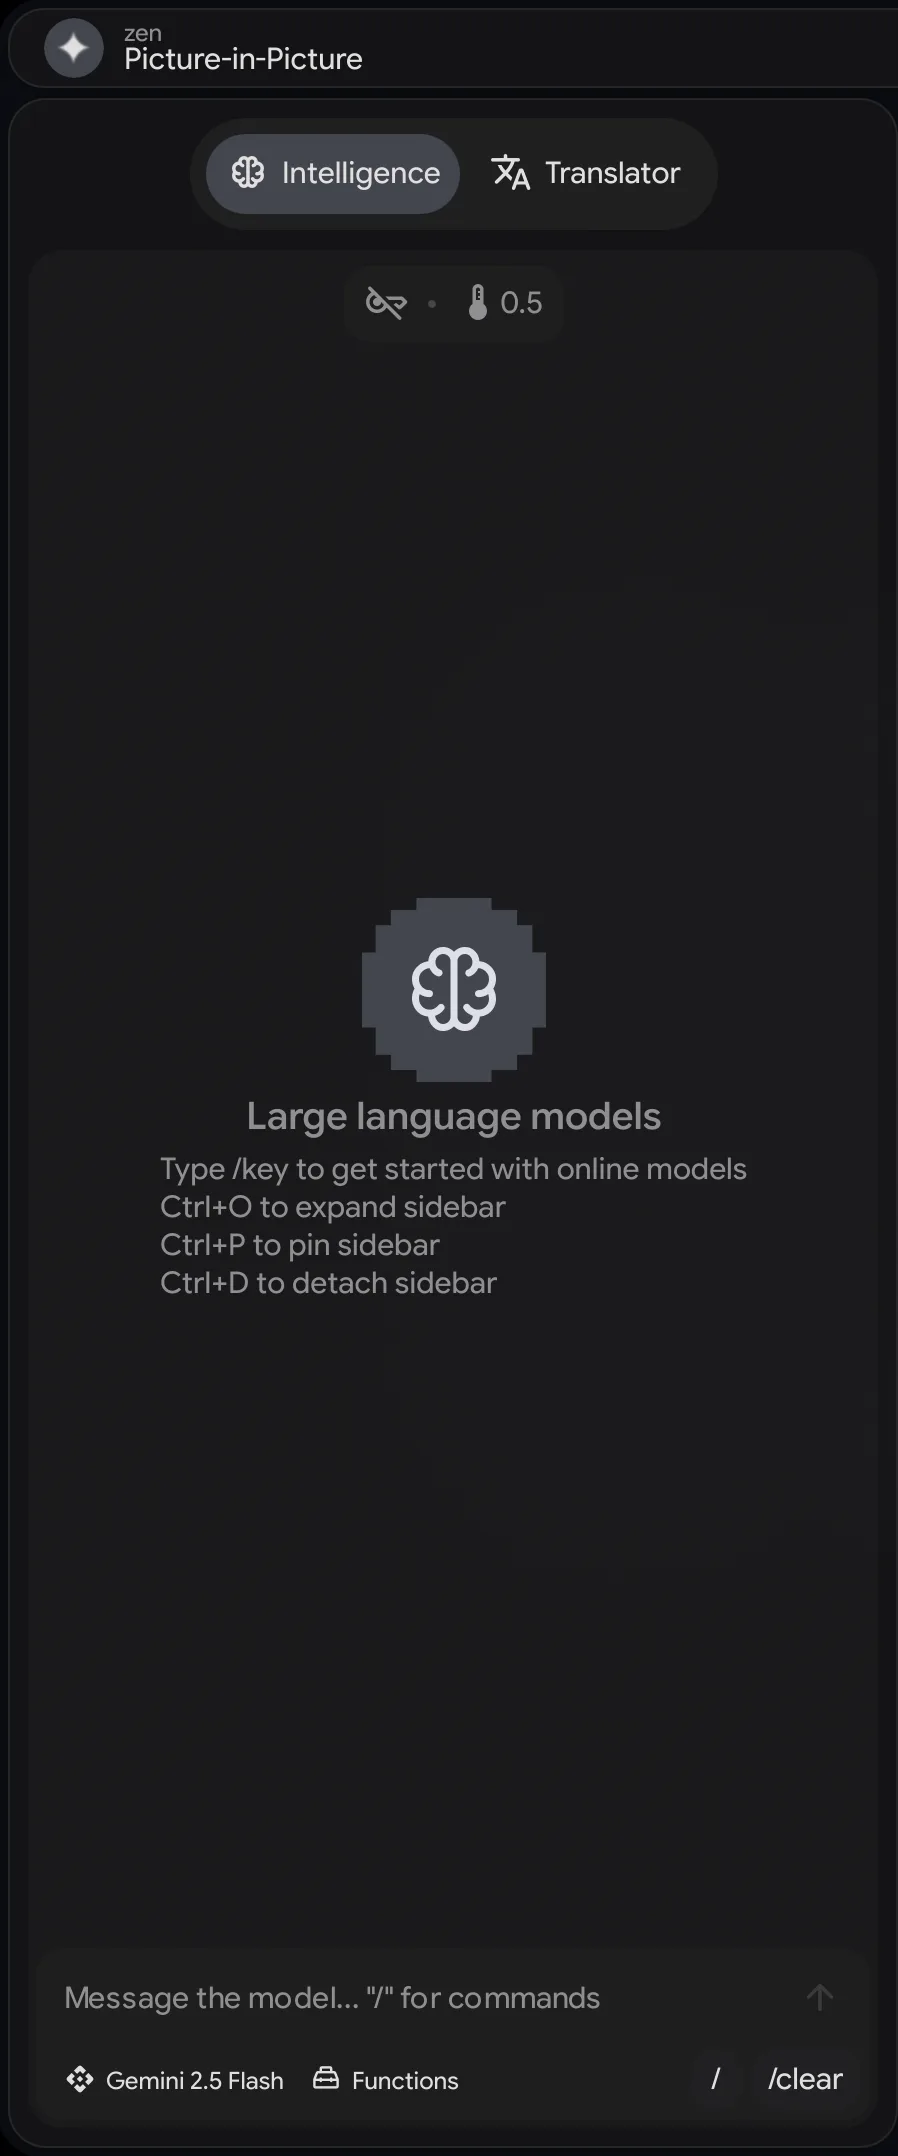
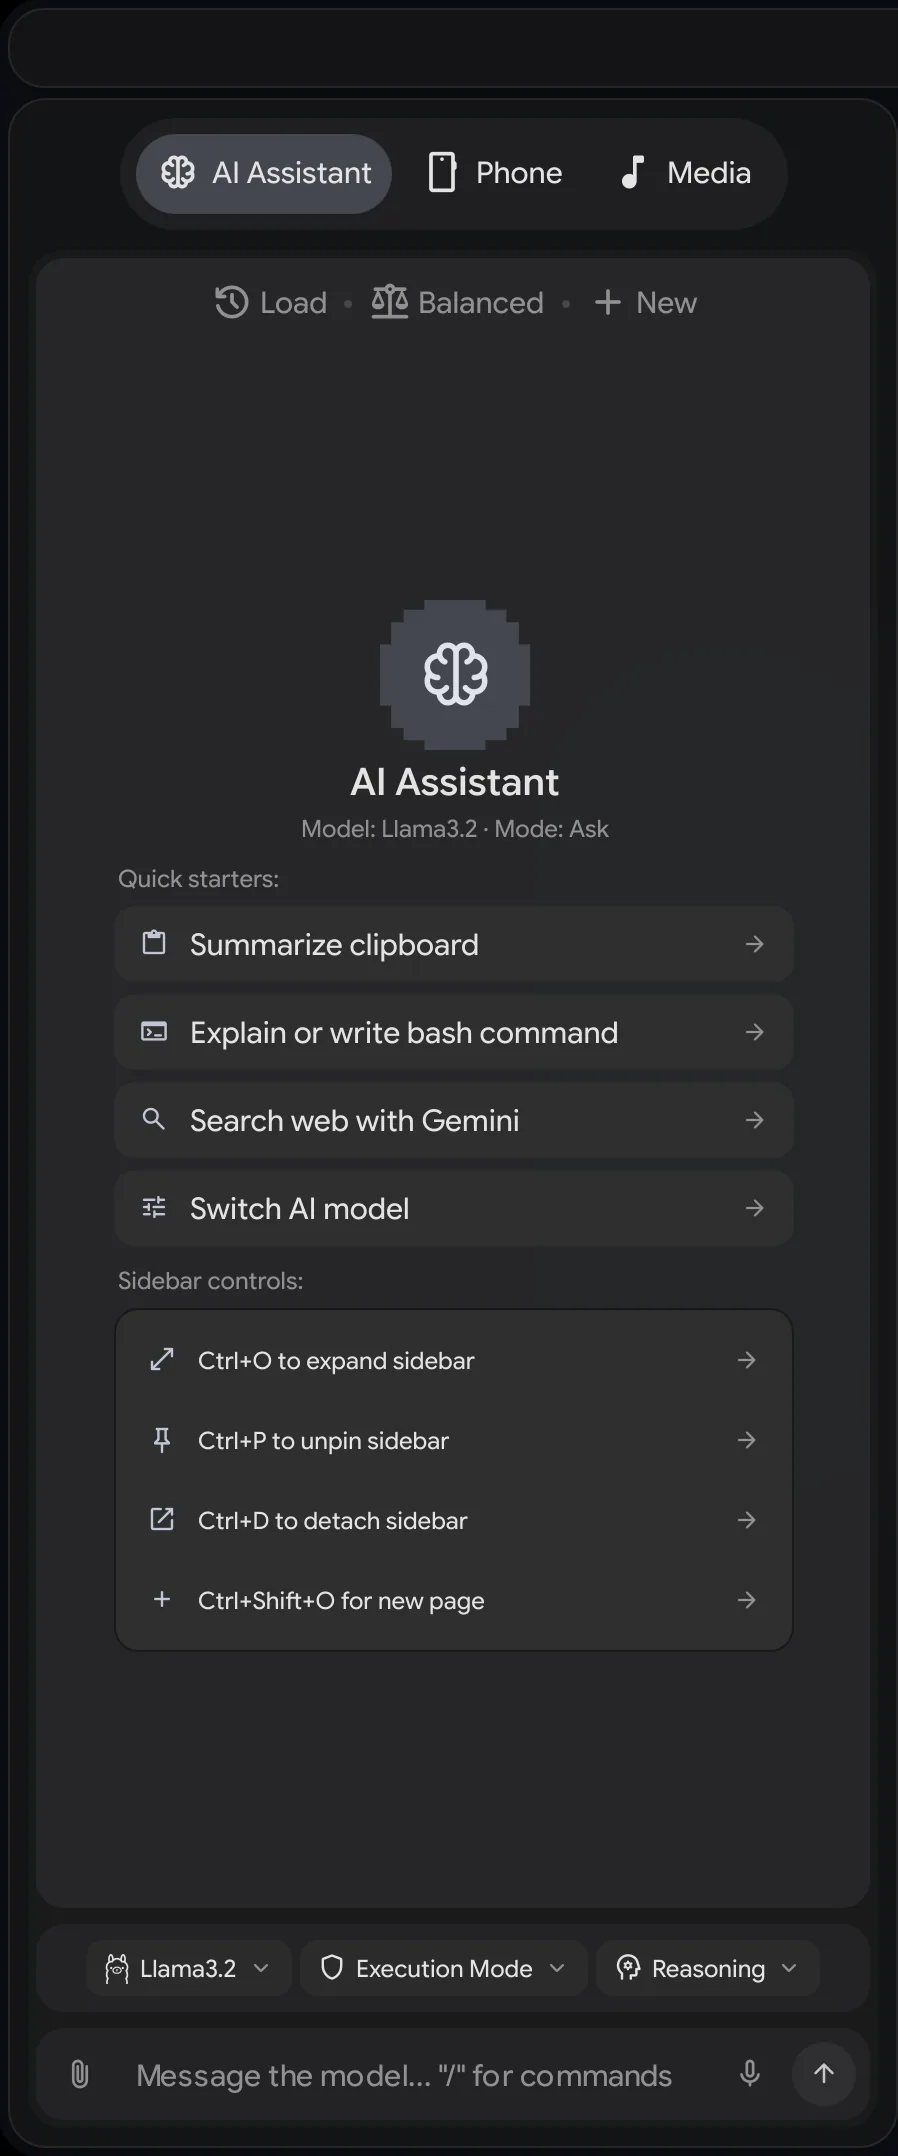
docs: update left sidebar screenshot and rename Intelligence to AI Assistant

diff --git a/docs-pages.js b/docs-pages.js
@@ -122,7 +122,7 @@ PAGES.home = {
     <div class="card-grid">
       ${card('desktop','The Desktop','iface','The bar, the dock, and title bars — the pieces you live with every day.', true)}
       ${card('overview-launcher','Overview & Launcher','overview','A zoomed-out map of every workspace and a launcher that finds everything.')}
-      ${card('sidebars','Sidebars','sidebar','Intelligence on the left; toggles, notifications, and calendar on the right.')}
+      ${card('sidebars','Sidebars','sidebar','The AI Assistant on the left; toggles, notifications, and calendar on the right.')}
       ${card('sharing','Sharing','send','Send and receive files with any device on your network — no cloud.')}
       ${card('desktop-apps','Desktop Apps','dock','Auto Drive Mount and Uninstall Apps: system chores without a terminal.')}
     </div>
@@ -2495,20 +2495,20 @@ PAGES['overview-launcher'] = {
 
 PAGES.sidebars = {
   group: 'Desktop', title: 'Sidebars', icon: 'sidebar',
-  lede: 'Two slide-out panels bookend the desktop: intelligence and translation on the left, system controls and your day on the right.',
+  lede: 'Two slide-out panels bookend the desktop: an AI assistant and translation on the left, system controls and your day on the right.',
   render: () => `
     <figure>
       <div class="shot">
         <video src="assets/docs/Sidebars-Demo.mp4" autoplay loop muted playsinline controls style="width:100%;display:block"></video>
       </div>
-      <figcaption>Both sidebars in action — quick toggles and your day on the right, the Intelligence panel on the left.</figcaption>
+      <figcaption>Both sidebars in action — quick toggles and your day on the right, the AI Assistant on the left.</figcaption>
     </figure>
 
-    <p>Opening them is a single click on the bar: click the <strong>left side of the top bar</strong> for the Intelligence sidebar, or the <strong>right side</strong> for toggles, notifications, and your calendar — exactly what the clip above shows.</p>
+    <p>Opening them is a single click on the bar: click the <strong>left side of the top bar</strong> for the AI Assistant sidebar, or the <strong>right side</strong> for toggles, notifications, and your calendar — exactly what the clip above shows.</p>
 
     ${twoShot('Full-Left-Sidebar.webp','The left sidebar: chat with local or online models, or translate.','Full-Right-Sidebar.webp','The right sidebar: quick toggles, notifications, and the calendar.')}
 
-    <h2>Left: Intelligence</h2>
+    <h2>Left: AI Assistant</h2>
     <p>A chat panel for large language models — bring an API key for online models or run local ones, with a translator one tab away. <strong>Ctrl + O</strong> expands it, <strong>Ctrl + P</strong> pins it open, and it stays entirely out of the way until asked.</p>
 
     <p>Gemini joins Claude and Codex as a plan: sign in once with your Google account, free or with Google AI Pro or Ultra, and chat through Google's Antigravity without an API key. The Bar's sidebar button shows the logo of the model you picked, and stays off the Bar while AI is off.</p>
